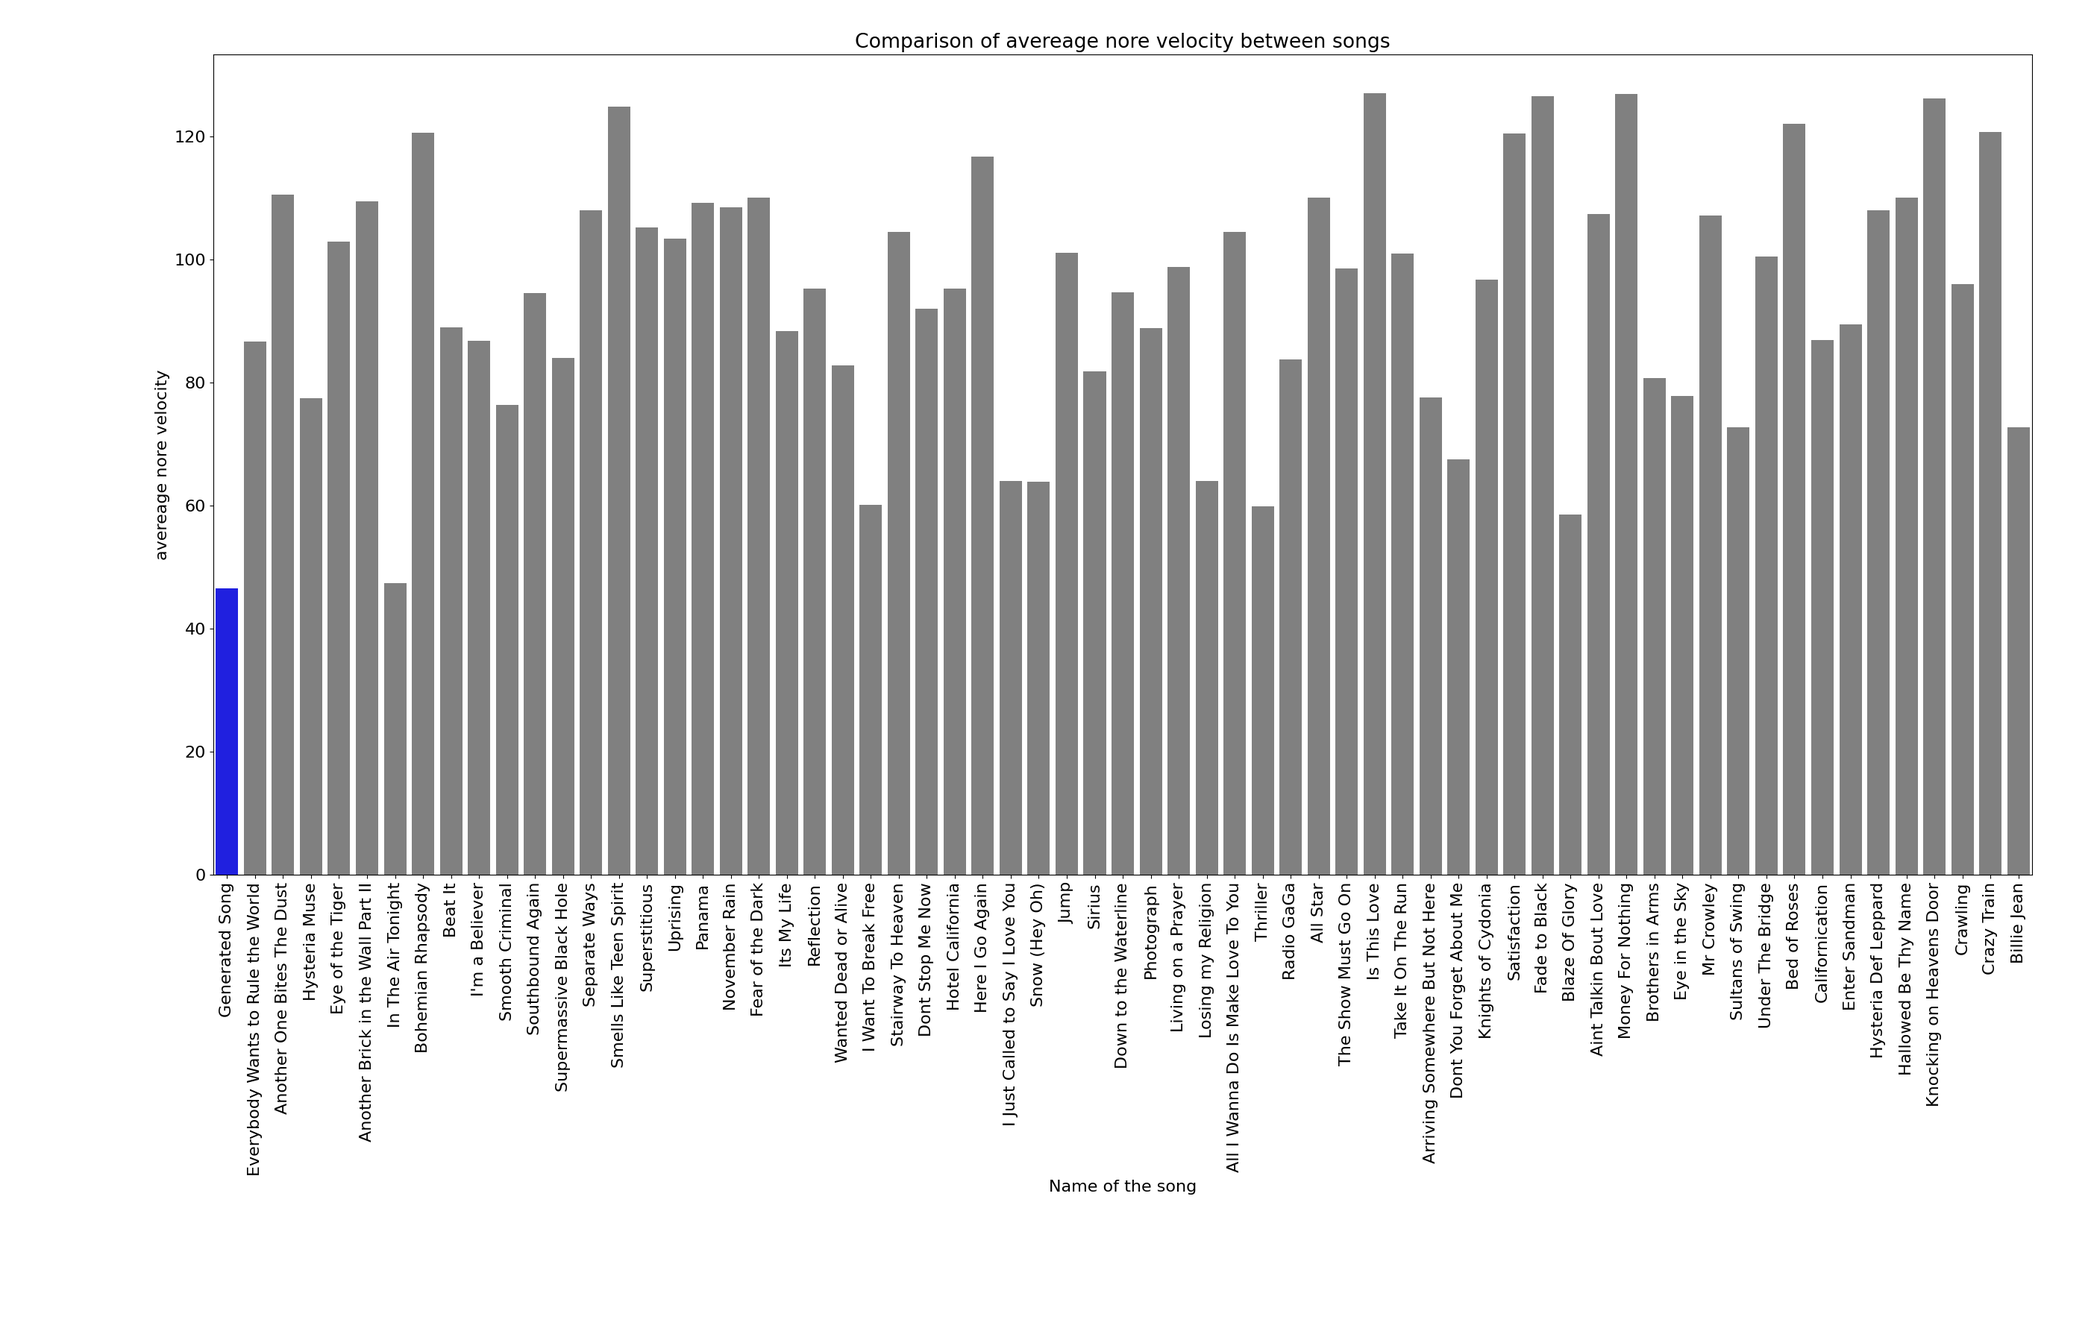
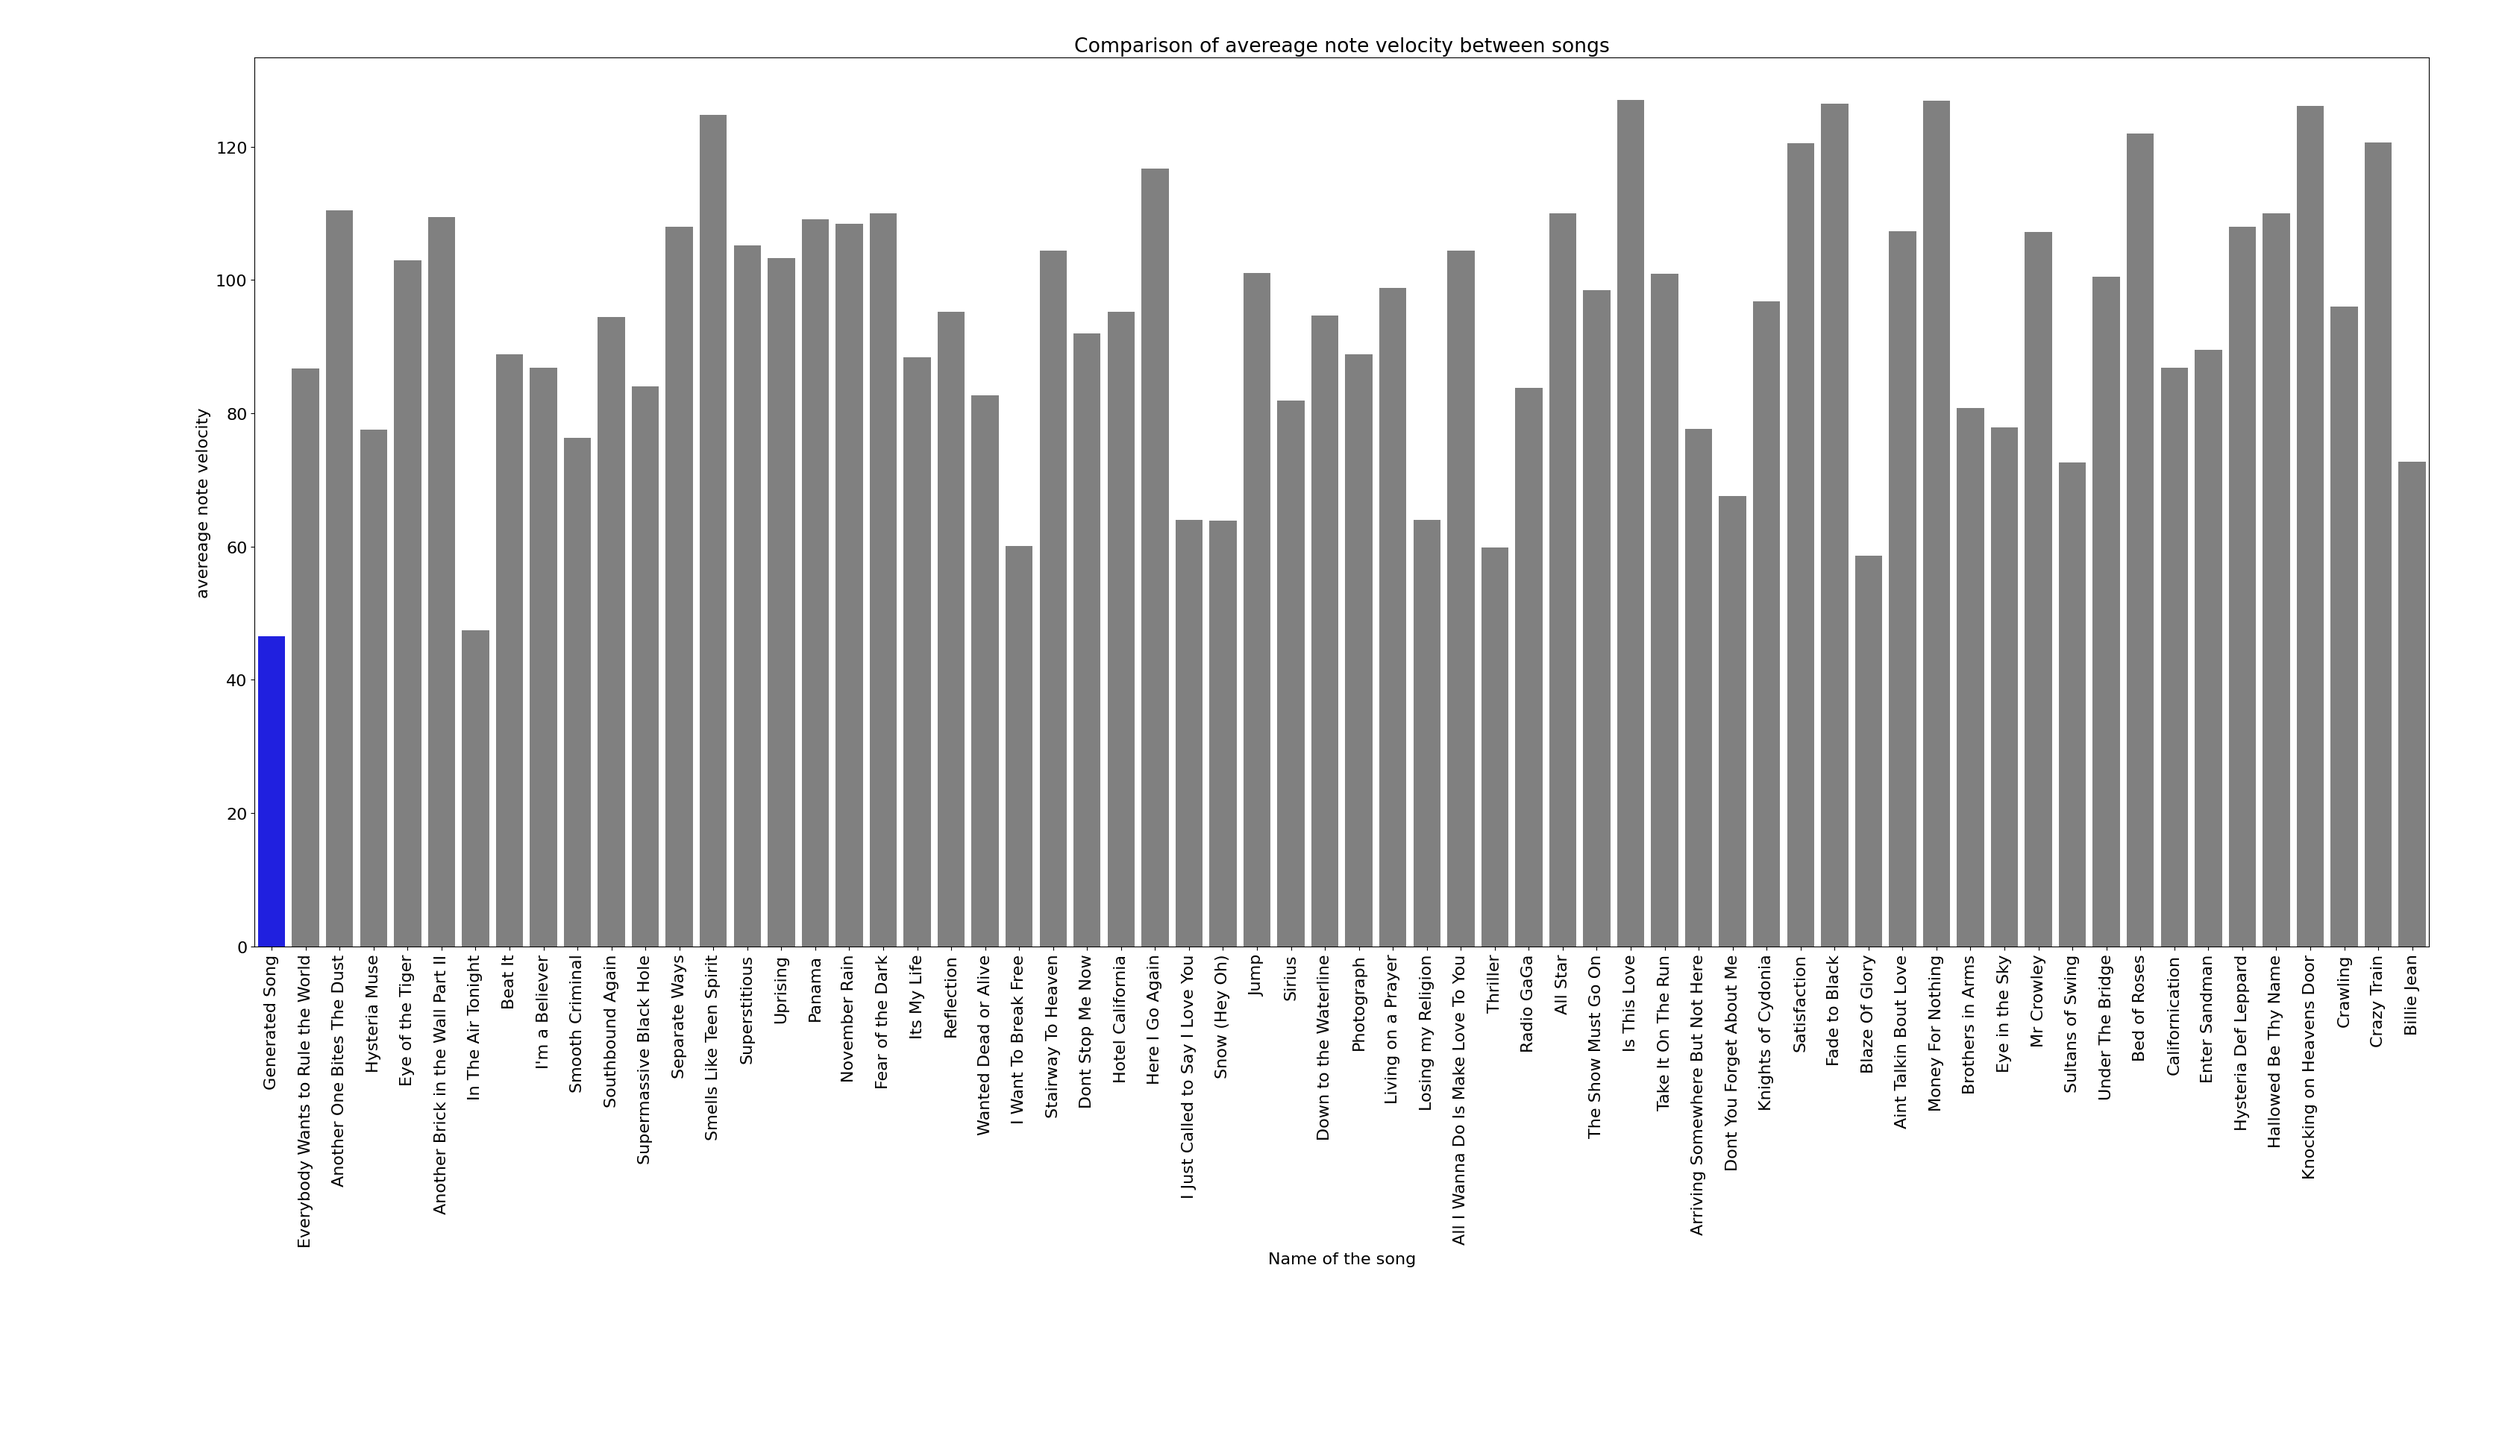
Latest bar plots

Changed region(s): [[0.0931, 0.0311, 0.9622, 0.8395], [0.0621, 0.2798, 0.0931, 0.4042], [0.5276, 0.8084, 0.5897, 0.8706]]

diff --git a/src/analyze.py b/src/analyze.py
@@ -30,7 +30,7 @@ def analyze_midi(midi_data):
           'number of notes': num_notes,
           'number of unique pitches': len(pitches),
           'average note duration': avg_duration,
-          'avereage nore velocity': avg_velocity
+          'avereage note velocity': avg_velocity
      }
 
 def analyze_all_midis(directory, generated_midi):
@@ -64,7 +64,7 @@ def plot_analyses(analyses):
      df['Name of the song'] = df['Name of the song'].str.replace('_', ' ')  # Replace underscores with spaces
      df['Name of the song'] = df['Name of the song'].str.replace('.mid', '')  # Replace underscores with spaces
 
-     variables = ['number of instruments', 'number of notes', 'number of unique pitches', 'average note duration', 'avereage nore velocity']
+     variables = ['number of instruments', 'number of notes', 'number of unique pitches', 'average note duration', 'avereage note velocity']
 
      for var in variables:
           plt.figure(figsize=(10, 13))
